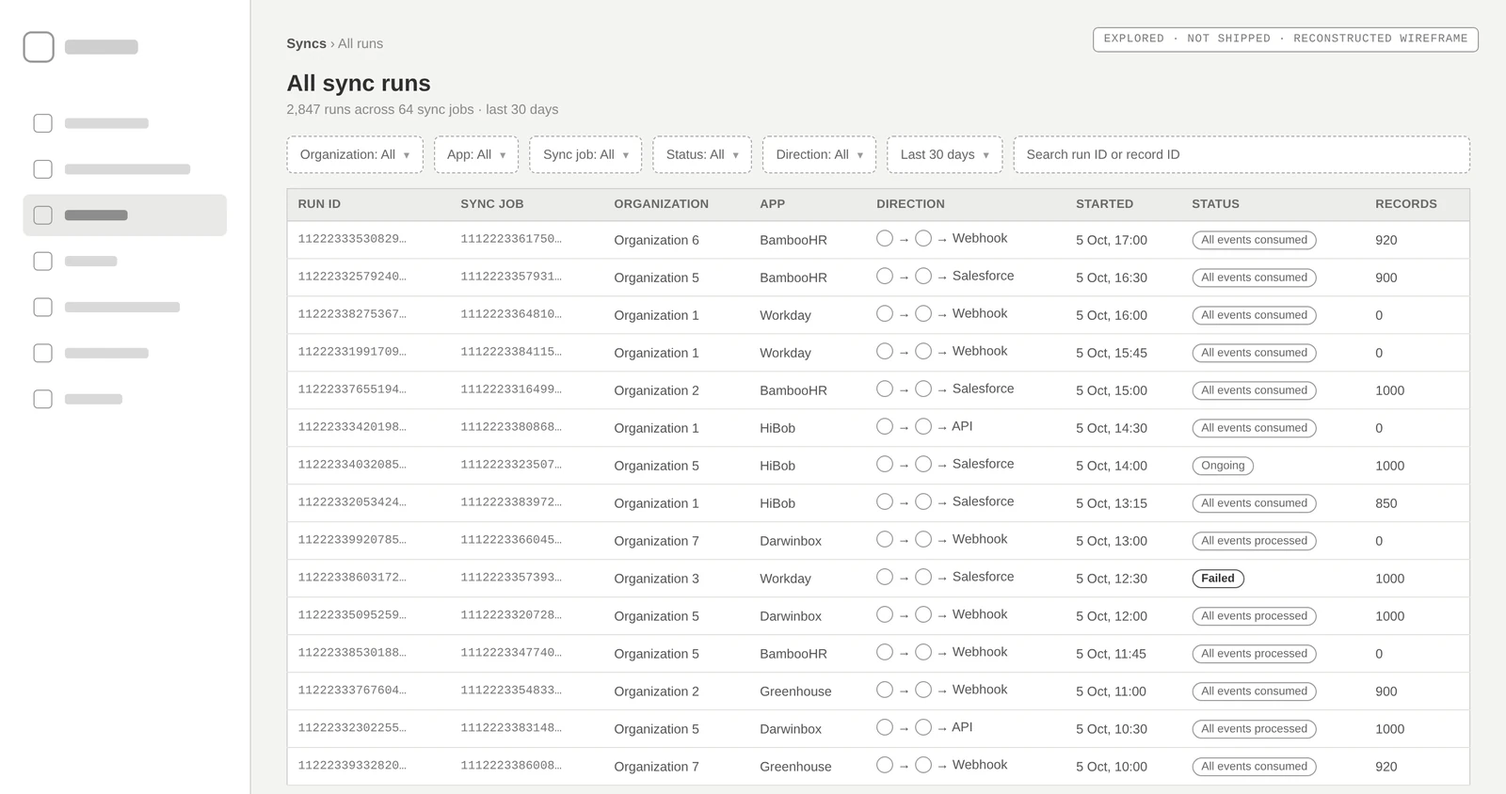
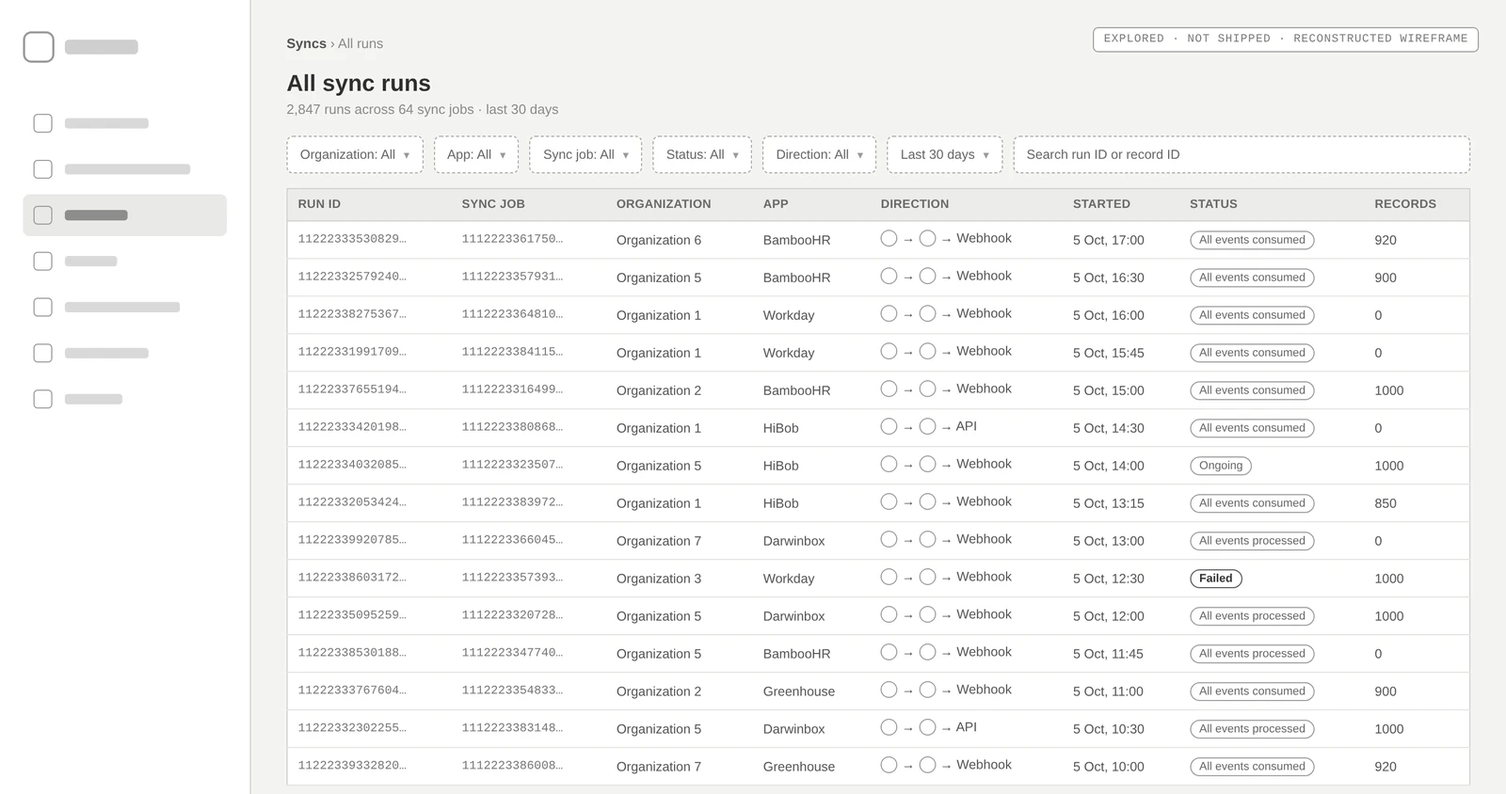
Sharpen Data Syncs visuals (#2)
* Sharpen Data Syncs visuals

- Add an animated two-hop diagram: a record passes BambooHR -> Knit (200 OK),
  then fails Knit -> Salesforce (404), with what v1 vs v2 told the customer
- Replace the three small v1 screenshots with zoomed crops of each problem,
  marked on a thumbnail of the full screen
- Rebuild the before/after slider on aligned records-table crops

Claude-Session: https://claude.ai/code/session_01HANcdKuu31yACBcrgzp2pV

* Polish Data Syncs cover, record page and home card

- Cover: one clean run screen with a callout on the 404 row, no floating overlay
- Record page: full-width screen with the four notes in a row underneath
- Home card: looping mini two-hop diagram instead of a still screenshot

Claude-Session: https://claude.ai/code/session_01HANcdKuu31yACBcrgzp2pV

* Show data landing at the customer's webhook

The second hop now ends at the customer's webhook, not Salesforce, in the
two-hop diagram, home card loop and case study copy.

Claude-Session: https://claude.ai/code/session_01HANcdKuu31yACBcrgzp2pV

* Point the v2 screens at the customer's webhook

- Direction cards on the job, run and record screens now end in the webhook
  icon; the destination's integration ID row is removed
- Record page step reads "Knit -> Webhook"
- Syncs list row for Organization 2 now shows the webhook destination
- Rejected-direction wireframes updated to match

Claude-Session: https://claude.ai/code/session_01HANcdKuu31yACBcrgzp2pV

---------

diff --git a/index.html b/index.html
@@ -806,6 +806,121 @@ h2.miss{opacity:.4;display:block;width:max-content;max-width:100%}
 .fn-note{margin-top:14px;font-size:13.5px;color:var(--muted);line-height:1.55}
 @media (max-width:1020px){.sy-old,.quotes,.cut{grid-template-columns:1fr}.lv-row{grid-template-columns:1fr;gap:6px}.fn-row,.fn-axis{grid-template-columns:1fr;gap:8px}.fn-axis div:first-child{display:none}}
 @media (prefers-reduced-motion:reduce){.fn-bar i{transition:none}}
+
+/* ===== Syncs visuals v2 ===== */
+.sp-list{display:grid;gap:18px}
+.sp{display:grid;grid-template-columns:minmax(220px,300px) minmax(0,1fr);gap:clamp(16px,2.4vw,32px);align-items:center;padding:clamp(14px,2vw,22px);border:1px solid var(--line);border-radius:22px;background:var(--surface)}
+.sp-meta .mono{display:block;color:var(--accent);font-size:11px;letter-spacing:.08em;margin:14px 0 6px}
+.sp-meta b{display:block;font-weight:500;font-size:18px;line-height:1.25}
+.sp-meta p{margin:6px 0 0;font-size:14.5px;color:var(--muted);line-height:1.5}
+.sp-thumb{position:relative;border-radius:10px;overflow:hidden;box-shadow:0 0 0 1px var(--line)}
+.sp-thumb .sw{aspect-ratio:auto}
+.sp-hl{position:absolute;border:2px solid var(--accent);border-radius:4px;box-shadow:0 0 0 999px rgba(20,14,10,.38);pointer-events:none}
+.sp-crop{position:relative;border-radius:14px;overflow:visible;background:#fff;box-shadow:0 30px 60px -36px rgba(10,6,2,.55),0 0 0 1px rgba(0,0,0,.06)}
+.sp-crop .sw{border-radius:14px;aspect-ratio:auto;background:#fff}
+.ring{position:absolute;border:2px dashed #C2412D;border-radius:8px;background:rgba(194,65,45,.07);pointer-events:none}
+.sp.in .ring{animation:ringIn .6s var(--ease) both}
+.sp.in .ring:nth-of-type(2){animation-delay:.15s}
+@keyframes ringIn{from{opacity:0;transform:scale(1.12)}to{opacity:1;transform:none}}
+.flag{position:absolute;z-index:2;font-family:var(--mono);font-size:11.5px;letter-spacing:.02em;line-height:1.35;color:#fff;background:#C2412D;padding:6px 9px;border-radius:7px;white-space:nowrap;box-shadow:0 8px 20px -8px rgba(0,0,0,.4)}
+.flag.up{transform:translateY(-100%)}
+.ba.tables{aspect-ratio:1104/452;background:#fff}
+.ba.tables .sw{aspect-ratio:1104/452;background:#fff}
+.ba.tables .ba-tag{top:auto;bottom:12px}
+.dp{--red:#C2412D;border:1px solid var(--line);border-radius:24px;background:var(--surface);padding:clamp(16px,2.6vw,30px)}
+[data-theme="dark"] .dp{--red:#F07A63}
+@media (prefers-color-scheme:dark){:root:not([data-theme="light"]) .dp{--red:#F07A63}}
+.dp-top{display:flex;justify-content:space-between;align-items:baseline;gap:12px;margin-bottom:8px}
+.dp-top h4{margin:0;font-weight:500;font-size:17px}
+.dp-replay{font-family:var(--mono);font-size:11px;letter-spacing:.06em;color:var(--muted);background:none;border:1px solid var(--line);border-radius:999px;padding:6px 12px;cursor:pointer}
+.dp-replay:hover{color:var(--ink);border-color:var(--ink)}
+.dp svg{display:block;width:100%;height:auto;overflow:visible}
+.dp .node rect{fill:var(--bg);stroke:var(--line);stroke-width:2}
+.dp .node.knit rect{stroke:var(--ink);stroke-width:2.5}
+.dp .node text{fill:var(--ink);font-family:var(--sans,Geist),system-ui,sans-serif;font-size:26px;font-weight:500;text-anchor:middle}
+.dp .node .cap{fill:var(--muted);font-family:var(--mono);font-size:15px;font-weight:400;letter-spacing:.08em}
+.dp .wire{stroke:var(--line);stroke-width:3;stroke-dasharray:2 10;stroke-linecap:round;fill:none}
+.dp .lit{stroke-width:3;fill:none;stroke-linecap:round;stroke-dasharray:400;stroke-dashoffset:400}
+.dp .lit.h1{stroke:var(--ok)}.dp .lit.h2{stroke:var(--red)}
+.dp .hop{fill:var(--muted);font-family:var(--mono);font-size:15px;letter-spacing:.06em;text-anchor:middle}
+.dp .badge{opacity:0}
+.dp .badge rect{rx:10}
+.dp .badge.ok rect{fill:color-mix(in srgb,var(--ok) 16%,var(--surface));stroke:var(--ok);stroke-width:1.5}
+.dp .badge.bad rect{fill:color-mix(in srgb,var(--red) 14%,var(--surface));stroke:var(--red);stroke-width:1.5}
+.dp .badge text{font-family:var(--mono);font-size:17px;text-anchor:middle}
+.dp .badge.ok text{fill:var(--ok)}.dp .badge.bad text{fill:var(--red)}
+.dp .rec{transform:translateX(0)}
+.dp .rec circle{fill:var(--accent)}
+.dp .rec text{fill:var(--muted);font-family:var(--mono);font-size:14px;text-anchor:middle}
+.dp.play .rec{animation:dpRec 3.4s var(--ease) forwards}
+.dp.play .rec circle{animation:dpRed 3.4s linear forwards}
+.dp.play .lit.h1{animation:dpLit .9s .25s var(--ease) forwards}
+.dp.play .lit.h2{animation:dpLit2 1s 1.9s var(--ease) forwards}
+.dp.play .badge.ok{animation:dpIn .4s 1.15s forwards}
+.dp.play .badge.bad{animation:dpIn .4s 2.9s forwards}
+.dp.play .dest{animation:dpDim .5s 2.9s forwards}
+.dp.play .ans{animation:dpUp .6s 3.3s var(--ease) both}
+.dp.play .ans + .ans{animation-delay:3.55s}
+@keyframes dpRec{0%{transform:translateX(0)}38%{transform:translateX(300px)}55%{transform:translateX(300px)}85%,100%{transform:translateX(520px)}}
+@keyframes dpRed{0%,84%{fill:var(--accent)}86%,100%{fill:var(--red)}}
+@keyframes dpLit{to{stroke-dashoffset:0}}
+@keyframes dpLit2{to{stroke-dashoffset:255}}
+@keyframes dpIn{to{opacity:1}}
+@keyframes dpDim{to{opacity:.38}}
+@keyframes dpUp{from{opacity:0;transform:translateY(12px)}to{opacity:1;transform:none}}
+.dp.final .rec{transform:translateX(520px)}.dp.final .rec circle{fill:var(--red)}
+.dp.final .lit.h1{stroke-dashoffset:0}.dp.final .lit.h2{stroke-dashoffset:255}
+.dp.final .badge{opacity:1}.dp.final .dest{opacity:.38}
+.dp-ans{display:grid;grid-template-columns:repeat(2,minmax(0,1fr));gap:14px;margin-top:18px}
+.ans{padding:16px 18px;border-radius:16px;border:1px solid var(--line);background:var(--bg)}
+.ans .mono{display:block;font-size:11px;letter-spacing:.08em;color:var(--muted);margin-bottom:10px}
+.ans.v2{border-color:var(--accent)}.ans.v2 .mono{color:var(--accent)}
+.ans p{margin:10px 0 0;font-size:14.5px;color:var(--muted);line-height:1.5}
+.mini-row{display:grid;grid-template-columns:1.6fr repeat(4,1fr);border:1px solid var(--line);border-radius:8px;overflow:hidden;font-family:var(--mono);font-size:11.5px}
+.mini-row span{padding:8px 6px;text-align:center;border-left:1px solid var(--line);color:var(--ok)}
+.mini-row.head{border-radius:8px 8px 0 0;border-bottom:0}.mini-row.head + .mini-row{border-radius:0 0 8px 8px}.mini-row.head span{color:var(--muted);font-size:10px;letter-spacing:.06em;padding:6px 4px}
+.mini-row span:first-child{border-left:0;color:var(--muted);text-align:left}
+.mini-row span.blank{background:repeating-linear-gradient(135deg,transparent 0 6px,color-mix(in srgb,var(--red,#C2412D) 12%,transparent) 6px 8px);outline:2px dashed var(--red,#C2412D);outline-offset:-3px}
+.step-line{display:flex;flex-wrap:wrap;gap:6px 10px;align-items:center;font-family:var(--mono);font-size:12.5px}
+.step-line b{font-weight:500;color:var(--ink)}
+.step-line .err{color:var(--red);border:1px solid var(--red);border-radius:6px;padding:2px 7px}
+@media (max-width:1020px){.sp{grid-template-columns:1fr}.sp-thumb{display:none}.sp-meta .mono{margin-top:0}.dp-ans{grid-template-columns:1fr}.flag{font-size:10.5px;white-space:normal;max-width:60%}}
+@media (prefers-reduced-motion:reduce){.dp.play .rec,.dp.play .rec circle,.dp.play .lit,.dp.play .badge,.dp.play .dest,.dp.play .ans{animation-duration:.01s!important;animation-delay:0s!important}}
+
+/* ===== Syncs visuals v3 ===== */
+.hot-stack .hot{width:100%}
+.hot-stack .hs-list{grid-template-columns:repeat(4,minmax(0,1fr));gap:10px;margin-top:16px}
+.hot-stack .hs-item{grid-template-columns:28px 1fr;align-items:start;border:1px solid var(--line);background:var(--surface)}
+.hot-stack .hs-item.on,.hot-stack .hs-item:hover{border-color:var(--accent)}
+.sw-wrap{position:relative}
+.cover-ring{position:absolute;z-index:3;border:2.5px solid #C2412D;border-radius:8px;box-shadow:0 0 0 6px rgba(194,65,45,.18);pointer-events:none;animation:coverRing 2.6s ease-in-out infinite}
+@keyframes coverRing{0%,100%{box-shadow:0 0 0 4px rgba(194,65,45,.14)}50%{box-shadow:0 0 0 10px rgba(194,65,45,.22)}}
+.cover-flag{position:absolute;z-index:4;transform:translate(-100%,-100%);margin:-12px 0 0 0;background:#16161D;color:#F3F3F7;font-family:var(--mono);font-size:clamp(10px,1vw,13px);letter-spacing:.02em;padding:9px 12px;border-radius:9px;white-space:nowrap;box-shadow:0 18px 36px -18px rgba(0,0,0,.6)}
+.cover-flag b{color:#FF8A75;font-weight:500}
+.mini-dp{position:absolute;inset:0;display:grid;place-items:center;padding:4% 3%}
+.mini-dp svg{width:100%;height:auto;overflow:visible}
+.mini-dp .mn rect{fill:rgba(255,255,255,.06);stroke:rgba(255,255,255,.35);stroke-width:2}
+.mini-dp .mn.k rect{stroke:#F3EEE6}
+.mini-dp .mn text{fill:#F3EEE6;font-family:var(--sans,Geist),system-ui,sans-serif;font-size:30px;font-weight:500;text-anchor:middle}
+.mini-dp .mw{stroke:rgba(255,255,255,.28);stroke-width:3;stroke-dasharray:2 10;stroke-linecap:round}
+.mini-dp .ml{stroke-width:4;stroke-linecap:round;stroke-dasharray:210;stroke-dashoffset:210}
+.mini-dp .ml.a{stroke:#6FD3A0;animation:mnA 5s infinite}
+.mini-dp .ml.b{stroke:#FF8A75;animation:mnB 5s infinite}
+.mini-dp .md{animation:mnDot 5s var(--ease) infinite}
+.mini-dp .md circle{r:15px;fill:#F3EEE6;animation:mnRed 5s linear infinite}
+.mini-dp .mb{opacity:0}
+.mini-dp .mb text{font-family:var(--mono);font-size:24px;text-anchor:middle}
+.mini-dp .mb.ok text{fill:#6FD3A0}.mini-dp .mb.bad text{fill:#FF8A75}
+.mini-dp .mb.ok{animation:mnOk 5s infinite}.mini-dp .mb.bad{animation:mnBad 5s infinite}
+@keyframes mnDot{0%{transform:translateX(0);opacity:0}5%{opacity:1}28%,40%{transform:translateX(300px)}62%,92%{transform:translateX(450px);opacity:1}100%{transform:translateX(450px);opacity:0}}
+@keyframes mnRed{0%,61%{fill:#F3EEE6}63%,100%{fill:#FF8A75}}
+@keyframes mnA{0%,4%{stroke-dashoffset:210;opacity:1}28%,92%{stroke-dashoffset:0;opacity:1}100%{stroke-dashoffset:0;opacity:0}}
+@keyframes mnB{0%,40%{stroke-dashoffset:210;opacity:1}62%,92%{stroke-dashoffset:135;opacity:1}100%{stroke-dashoffset:135;opacity:0}}
+@keyframes mnOk{0%,28%{opacity:0}32%,92%{opacity:1}100%{opacity:0}}
+@keyframes mnBad{0%,62%{opacity:0}66%,92%{opacity:1}100%{opacity:0}}
+@media (max-width:1020px){.hot-stack .hs-list{grid-template-columns:1fr 1fr}}
+@media (max-width:560px){.hot-stack .hs-list{grid-template-columns:1fr}.cover-flag{white-space:normal;width:60%}}
+@media (prefers-reduced-motion:reduce){.mini-dp *{animation:none!important}.mini-dp .md{transform:translateX(450px)}.mini-dp .md circle{fill:#FF8A75}.mini-dp .ml.a{stroke-dashoffset:0}.mini-dp .ml.b{stroke-dashoffset:135}.mini-dp .mb{opacity:1}.cover-ring{animation:none}}
 </style>
 </head>
 <body>
@@ -931,8 +1046,16 @@ h2.miss{opacity:.4;display:block;width:max-content;max-width:100%}
             <span class="viewcase">Open project <i>→</i></span>
           </div>
           <div class="scard-art" style="--tint:#1F4B3E">
-            <div class="layer l1" data-depth="-40" style="left:8%;top:12%;width:90%"><div class="frame"><div class="frame-bar"><i></i><i></i><i></i><span>app.getknit.dev/syncs</span></div><div class="sw" data-screen="syncsNewRun"></div></div></div>
-            <span class="art-note">Real product screens · sample data</span>
+            <div class="mini-dp" aria-hidden="true"><svg viewBox="0 0 1000 260">
+              <path class="mw" d="M215 140 H425"/><path class="mw" d="M575 140 H785"/>
+              <path class="ml a" d="M215 140 H425"/><path class="ml b" d="M575 140 H785"/>
+              <g class="md"><circle cx="200" cy="140" r="13"/></g>
+              <g class="mn"><rect x="25" y="90" width="190" height="100" rx="18"/><text x="120" y="148">BambooHR</text></g>
+              <g class="mn k"><rect x="425" y="90" width="150" height="100" rx="18"/><text x="500" y="148">Knit</text></g>
+              <g class="mn"><rect x="785" y="90" width="190" height="100" rx="18"/><text x="880" y="148">Webhook</text></g>
+              <g class="mb ok"><text x="320" y="70">✓ 200 OK</text></g><g class="mb bad"><text x="680" y="70">✕ 404 Not Found</text></g>
+            </svg></div>
+            <span class="art-note">Every record makes two hops</span>
           </div>
           <a class="cover" href="#case-observability" data-cursor="Open" aria-label="Open project 03"></a>
         </div>
@@ -1078,14 +1201,53 @@ h2.miss{opacity:.4;display:block;width:max-content;max-width:100%}
 <template id="tpl-sy-old">
   <div class="vis">
     <div class="vis-cap"><span>What a customer saw in v1</span><span>Real screens, sample data</span></div>
-    <div class="sy-old">
-      <figure><div class="frame"><div class="frame-bar"><i></i><i></i><i></i><span>Syncs</span></div><div class="sw" data-screen="syncsOldList"></div></div><figcaption><span class="mono">LEVEL 1 · LIST</span><b>64 syncs, and no sign of health</b>Organization, app, IDs and a schedule. Nothing said whether any sync had worked, or where its data was going.</figcaption></figure>
-      <figure><div class="frame"><div class="frame-bar"><i></i><i></i><i></i><span>Syncs › Sync Job</span></div><div class="sw" data-screen="syncsOldJob"></div></div><figcaption><span class="mono">LEVEL 2 · JOB</span><b>Runs, counted the way the system counts</b>Events triggered, events consumed, records processed. Accurate, and written in Knit's vocabulary rather than the customer's.</figcaption></figure>
-      <figure><div class="frame"><div class="frame-bar"><i></i><i></i><i></i><span>Syncs › Sync Run</span></div><div class="sw" data-screen="syncsOldRun"></div></div><figcaption><span class="mono">LEVEL 3 · RUN</span><b>The flat table with checkboxes</b>A blank cell could mean failed, skipped or not supported. No error, no reason, and no way to tell which hop broke.</figcaption></figure>
+    <div class="sp-list">
+      <div class="sp" data-sp>
+        <div class="sp-meta"><div class="sp-thumb"><div class="sw" data-screen="syncsOldList"></div><i class="sp-hl" style="left:19.03%;top:36.32%;width:71.39%;height:25.0%"></i></div>
+          <span class="mono">LEVEL 1 · LIST</span><b>64 syncs, and no sign of health</b><p>Organization, app, IDs and a schedule. Nothing said whether a sync had worked, or where its data was going.</p></div>
+        <div class="sp-crop"><div class="sw" data-screen="syncsCropList"></div><i class="ring" style="left:0%;top:0%;width:100%;height:17.5%"></i><span class="flag up" style="left:62%;top:0%">No status · no direction</span></div>
+      </div>
+      <div class="sp" data-sp>
+        <div class="sp-meta"><div class="sp-thumb"><div class="sw" data-screen="syncsOldJob"></div><i class="sp-hl" style="left:19.03%;top:44.47%;width:71.39%;height:20.0%"></i></div>
+          <span class="mono">LEVEL 2 · JOB</span><b>Runs, counted the way the system counts</b><p>Events triggered, events consumed, records processed. Accurate, and written in Knit's vocabulary rather than the customer's.</p></div>
+        <div class="sp-crop"><div class="sw" data-screen="syncsCropJob"></div><i class="ring" style="left:40.6%;top:1%;width:57.6%;height:98%"></i><span class="flag up" style="left:40.6%;top:0%">Knit's counters, not the customer's question</span></div>
+      </div>
+      <div class="sp" data-sp>
+        <div class="sp-meta"><div class="sp-thumb"><div class="sw" data-screen="syncsOldRun"></div><i class="sp-hl" style="left:19.03%;top:44.47%;width:71.39%;height:29.47%"></i></div>
+          <span class="mono">LEVEL 3 · RUN</span><b>The flat table with checkboxes</b><p>A blank cell could mean failed, skipped or not supported. No error, no reason, and no way to tell which hop broke.</p></div>
+        <div class="sp-crop"><div class="sw" data-screen="syncsCropRun"></div><i class="ring" style="left:45.5%;top:42.9%;width:13.5%;height:28.1%"></i><i class="ring" style="left:31.9%;top:71.4%;width:13.5%;height:28.2%"></i><span class="flag " style="left:60.5%;top:47%">Blank = failed? skipped? not supported?</span></div>
+      </div>
     </div>
   </div>
 </template>
 
+<template id="tpl-sy-path">
+  <div class="vis">
+    <div class="vis-cap"><span>Anatomy of one failed record</span><span>Plays when it scrolls into view</span></div>
+    <div class="dp" data-dp>
+      <div class="dp-top"><h4>Every record makes two hops. v1 couldn't say which one broke.</h4><button class="dp-replay" type="button">↻ REPLAY</button></div>
+      <svg viewBox="0 0 1000 300" role="img" aria-label="A record travels from BambooHR to Knit with 200 OK, then fails on the way from Knit to the customer's webhook with 404 Not Found.">
+        <path class="wire" d="M215 170 H425"/><path class="wire" d="M575 170 H785"/>
+        <path class="lit h1" d="M215 170 H425"/><path class="lit h2" d="M575 170 H785"/>
+        <g class="rec"><circle cx="200" cy="170" r="13"/><text x="200" y="210">record 101</text></g>
+        <text class="hop" x="320" y="128">HOP 1 · GET</text><text class="hop" x="680" y="128">HOP 2 · POST</text>
+        <g class="node"><rect x="25" y="120" width="190" height="100" rx="18"/><text x="120" y="178">BambooHR</text><text class="cap" x="120" y="252">SOURCE APP</text></g>
+        <g class="node knit"><rect x="425" y="120" width="150" height="100" rx="18"/><text x="500" y="178">Knit</text><text class="cap" x="500" y="252">KNIT</text></g>
+        <g class="node dest"><rect x="785" y="120" width="190" height="100" rx="18"/><text x="880" y="178">Webhook</text><text class="cap" x="880" y="252">CUSTOMER'S ENDPOINT</text></g>
+        <g class="badge ok"><rect x="255" y="40" width="130" height="40"/><text x="320" y="66">✓ 200 OK</text></g>
+        <g class="badge bad"><rect x="600" y="40" width="200" height="40"/><text x="700" y="66">✕ 404 Not Found</text></g>
+      </svg>
+      <div class="dp-ans">
+        <div class="ans v1"><span class="mono">WHAT V1 TOLD YOU</span>
+          <div class="mini-row head"><span>ID</span><span>PROFILE</span><span>ORG</span><span>SALARY</span><span>LOCATION</span></div><div class="mini-row"><span>record 101</span><span>✓</span><span>✓</span><span class="blank" aria-label="blank cell"></span><span>✓</span></div>
+          <p>A blank cell under Salary. Failed, skipped, or not supported? No way to tell, so the customer asked us.</p></div>
+        <div class="ans v2"><span class="mono">WHAT V2 TELLS YOU</span>
+          <div class="step-line"><b>Record 101</b><span>Step 2 · POST Push record</span><span>Knit → customer's webhook</span><span class="err">404 Not Found</span></div>
+          <p>The hop, the call and the result, one click below the run. The customer can see the failure happened at their own webhook, not inside Knit.</p></div>
+      </div>
+    </div>
+  </div>
+</template>
 <template id="tpl-sy-quotes">
   <div class="vis">
     <div class="vis-cap"><span>In their words</span><span>Call transcripts, Jul 2024 – Dec 2025</span></div>
@@ -1132,7 +1294,7 @@ h2.miss{opacity:.4;display:block;width:max-content;max-width:100%}
           <div class="step on"><span class="n">LEVEL 1 · LIST</span><b>Where the data goes</b><span>Organization first, then Direction: source app → Knit → destination. No status column, on purpose: a sync job is a schedule.</span></div>
           <div class="step"><span class="n">LEVEL 2 · JOB</span><b>How its runs went</b><span>Summary cards on top, then every run with one of four states. Amber means processed, green means the customer's side confirmed it.</span></div>
           <div class="step"><span class="n">LEVEL 3 · RUN</span><b>Which records failed</b><span>Each record with an HTTP status, a Remarks column for the error and the data models it processed. Filter and search for the one that broke.</span></div>
-          <div class="step"><span class="n">LEVEL 4 · RECORD · NEW</span><b>Which step broke</b><span>Every step the record went through. GET from BambooHR: 200 OK. POST to Salesforce: 404 Not Found. That's the hop.</span></div>
+          <div class="step"><span class="n">LEVEL 4 · RECORD · NEW</span><b>Which step broke</b><span>Every step the record went through. GET from BambooHR: 200 OK. POST to the customer's webhook: 404 Not Found. That's the hop.</span></div>
         </div>
         <div class="sc-stage"><div class="frame"><div class="frame-bar"><i></i><i></i><i></i><span>app.getknit.dev/syncs</span></div>
           <div class="sc-screens wide"><div class="sw on" data-screen="syncsNewList"></div><div class="sw" data-screen="syncsNewJob"></div><div class="sw" data-screen="syncsNewRun"></div><div class="sw" data-screen="syncsNewRecord"></div></div>
@@ -1144,11 +1306,11 @@ h2.miss{opacity:.4;display:block;width:max-content;max-width:100%}
 
 <template id="tpl-sy-ba">
   <div class="vis">
-    <div class="vis-cap"><span>The run page, v1 against v2</span><span>Drag the handle</span></div>
-    <div class="ba real" data-lens-title="Contrast effect" data-lens="Change is easiest to judge side by side. The blank checkbox cells on the left are the whole problem; the Remarks column on the right is the answer.">
-      <div class="layer-a"><div class="sw" data-screen="syncsOldRun"></div></div>
-      <div class="layer-b"><div class="sw" data-screen="syncsNewRun"></div></div>
-      <span class="ba-tag l">v1 · ticks and blanks</span><span class="ba-tag r">v2 · status, reason, models</span>
+    <div class="vis-cap"><span>The records table, v1 against v2</span><span>Drag the handle</span></div>
+    <div class="ba real tables" data-lens-title="Contrast effect" data-lens="Change is easiest to judge side by side. Same job, same records: blanks on one side, a status and a reason on the other.">
+      <div class="layer-a"><div class="sw" data-screen="syncsBaOld"></div></div>
+      <div class="layer-b"><div class="sw" data-screen="syncsBaNew"></div></div>
+      <span class="ba-tag l">v1 · ticks and blanks</span><span class="ba-tag r">v2 · status, reason, data models</span>
       <div class="ba-handle"></div>
     </div>
   </div>
@@ -1156,20 +1318,20 @@ h2.miss{opacity:.4;display:block;width:max-content;max-width:100%}
 
 <template id="tpl-sy-hot">
   <div class="vis">
-    <div class="vis-cap"><span>The new record page, up close</span><span>Hover the pins</span></div>
-    <div class="cs-grid">
-      <div class="hs-list" data-hs-list="hsSy">
-        <div class="hs-item" data-k="0"><i>1</i><div><b>A real address</b><span>Syncs › Job › Run › Record. A full page gets its own link to share with support and a breadcrumb back up.</span></div></div>
-        <div class="hs-item" data-k="1"><i>2</i><div><b>The result, in plain terms</b><span>404 Not Found, the language developers already debug in.</span></div></div>
-        <div class="hs-item" data-k="2"><i>3</i><div><b>One row per hop</b><span>Method, direction and result for every executed step, so the failing hop stands out.</span></div></div>
-        <div class="hs-item" data-k="3"><i>4</i><div><b>Data models, not data</b><span>What was subscribed and processed for this record. No field values, because Knit doesn't keep them.</span></div></div>
-      </div>
-      <div class="hot frame" id="hsSy"><div class="frame-bar"><i></i><i></i><i></i><span>Syncs › Job › Run › Record 101</span></div>
+    <div class="vis-cap"><span>The new record page, up close</span><span>Hover the pins or the notes</span></div>
+    <div class="hot-stack">
+      <div class="hot frame" id="hsSy"><div class="frame-bar"><i></i><i></i><i></i><span>app.getknit.dev/syncs/sj_…/sr_…/101</span></div>
         <div class="sw" data-screen="syncsNewRecord"></div>
         <button class="hs" style="--x:36%;--y:11%" data-k="0" aria-label="Pin 1">1</button>
         <button class="hs" style="--x:86%;--y:28%" data-k="1" aria-label="Pin 2">2</button>
         <button class="hs" style="--x:30%;--y:47%" data-k="2" aria-label="Pin 3">3</button>
         <button class="hs" style="--x:68%;--y:66%" data-k="3" aria-label="Pin 4">4</button>
+      </div>
+      <div class="hs-list" data-hs-list="hsSy">
+        <div class="hs-item" data-k="0"><i>1</i><div><b>A real address</b><span>Syncs › Job › Run › Record. A full page gets its own link to share with support and a breadcrumb back up.</span></div></div>
+        <div class="hs-item" data-k="1"><i>2</i><div><b>The result, in plain terms</b><span>404 Not Found, the language developers already debug in.</span></div></div>
+        <div class="hs-item" data-k="2"><i>3</i><div><b>One row per hop</b><span>Method, direction and result for every executed step, so the failing hop stands out.</span></div></div>
+        <div class="hs-item" data-k="3"><i>4</i><div><b>Data models, not data</b><span>What was subscribed and processed for this record. No field values, because Knit doesn't keep them.</span></div></div>
       </div>
     </div>
   </div>
@@ -1398,6 +1560,11 @@ const CONFIG = {
     syncsNewRecord: "assets/syncs-new-record.webp",
     syncsExAll: "assets/syncs-explored-all-runs.webp",
     syncsExPanel: "assets/syncs-explored-side-panel.webp",
+    syncsCropList: "assets/syncs-crop-list.webp",
+    syncsCropJob: "assets/syncs-crop-job.webp",
+    syncsCropRun: "assets/syncs-crop-run.webp",
+    syncsBaOld: "assets/syncs-ba-old.webp",
+    syncsBaNew: "assets/syncs-ba-new.webp",
     /* Other projects: placeholders until you upload a real screen with the same file name */
     dashboard: "assets/dashboard.webp",
     connect: "assets/connect.webp",
@@ -1514,7 +1681,7 @@ curl https://api.getknit.dev/v1.0/hris/employees \\
     <div class="s-card"><table class="s-table"><tr><th>Employee</th><th>Manager</th><th>Self review</th><th>Manager review</th><th>Progress</th></tr>
       ${[["Ananya R.","Vikram S.","ok","Submitted","run","In progress",70],["Rohan M.","Vikram S.","ok","Submitted","ok","Submitted",100],["Meera K.","Priya N.","ok","Submitted","wait","Not started",35],["Arjun T.","Priya N.","wait","Due in 2 days","wait","Not started",10]].map(r => `<tr><td><span class="s-app"><span class="avatar" style="background:#C98BA0">${r[0][0]}</span>${r[0]}</span></td><td>${r[1]}</td><td>${st(r[2], r[3])}</td><td>${st(r[4], r[5])}</td><td><div style="width:120px;height:6px;border-radius:3px;background:#EEF0F4"><div style="width:${r[6]}%;height:100%;border-radius:3px;background:#D9577A"></div></div></td></tr>`).join("")}</table></div></div></div>`
 };
-const SCREEN_NAMES = { dashboard:"Unified API · Dashboard", accounts:"Integrated accounts", syncs:"Data syncs", activity:"Unified activity", before3:"Before: three products", picker:"Onboarding · pick a path", connect:"White-label connect", detail:"Live object detail", index:"Live objects index", quickstart:"Quickstart", digix:"DIGIX · Scheduler", review:"SuperBeings · Review cycle", syncsOldList:"Syncs v1 · list", syncsOldJob:"Syncs v1 · job", syncsOldRun:"Syncs v1 · run", syncsNewList:"Syncs v2 · list", syncsNewJob:"Syncs v2 · job", syncsNewRun:"Syncs v2 · run", syncsNewRecord:"Syncs v2 · record", syncsExAll:"Explored · all runs table", syncsExPanel:"Explored · side panel" };
+const SCREEN_NAMES = { dashboard:"Unified API · Dashboard", accounts:"Integrated accounts", syncs:"Data syncs", activity:"Unified activity", before3:"Before: three products", picker:"Onboarding · pick a path", connect:"White-label connect", detail:"Live object detail", index:"Live objects index", quickstart:"Quickstart", digix:"DIGIX · Scheduler", review:"SuperBeings · Review cycle", syncsOldList:"Syncs v1 · list", syncsOldJob:"Syncs v1 · job", syncsOldRun:"Syncs v1 · run", syncsNewList:"Syncs v2 · list", syncsNewJob:"Syncs v2 · job", syncsNewRun:"Syncs v2 · run", syncsNewRecord:"Syncs v2 · record", syncsExAll:"Explored · all runs table", syncsExPanel:"Explored · side panel", syncsCropList:"Syncs v1 · list detail", syncsCropJob:"Syncs v1 · job detail", syncsCropRun:"Syncs v1 · run detail", syncsBaOld:"Syncs v1 · records table", syncsBaNew:"Syncs v2 · records table" };
 
 const scaleQueue = new Set();
 const ro = new ResizeObserver(entries => entries.forEach(e => fit(e.target)));
@@ -1625,12 +1792,12 @@ const CASES = [
     kicker: "Case study 03 · Knit · Data Syncs · 2026", crumb: "03 · Knit · Data Syncs redesign",
     title: "From the system's view to the customer's <em>question</em>",
     lede: "Knit moves data between its customers' products and hundreds of HR, CRM and accounting apps on a schedule. I designed the first Syncs screens around how engineering saw that system. A year later I redesigned them around the one question customers kept asking: which record broke, and where?",
-    cover: { main: "syncsNewRun", float: "syncsNewRecord", url: "app.getknit.dev/syncs/sj_…/sr_…" },
+    cover: { main: "syncsNewRun", url: "app.getknit.dev/syncs/sj_…/sr_…", ring: [18.9, 43.6, 76.7, 4.9], flag: "Record 101 · <b>404 Not Found</b> · which step?" },
     tldr: { role: "Sole product designer. I designed v1 as well.", team: "2 founders, 2 engineers", timeline: "8 weeks: 2 weeks design, 6 weeks build. Live 11 Mar 2026", industry: "B2B SaaS · integrations", problem: "Customers could see that a sync ran, but not which record failed or which hop broke.", result: "About 1 in 4 sessions on a sync run now open the failing record, a level that didn't exist before" },
     chapters: [
       { name: "Context & problem", head: "The first version was mine, and it answered the wrong question.",
-        body: ["A sync job copies data on a schedule, say employees from BambooHR into a customer's Salesforce. Each run moves hundreds or thousands of records, and every record makes two hops: from the source app into Knit, then from Knit to wherever the customer wants it.", "I designed v1 of these screens for the 2024 web app launch, and I modelled them on how engineering described the system: jobs, runs, events triggered and events consumed. It was accurate. It just wasn't what customers needed once they started relying on it to debug.", "The drill-down from list to job to run already existed. The trouble was what each level showed."],
-        custom: ["tpl-sy-old"] },
+        body: ["A sync job copies data on a schedule, say employees from BambooHR, delivered to the customer's webhook. Each run moves hundreds or thousands of records, and every record makes two hops: from the source app into Knit, then from Knit to the customer's webhook.", "I designed v1 of these screens for the 2024 web app launch, and I modelled them on how engineering described the system: jobs, runs, events triggered and events consumed. It was accurate. It just wasn't what customers needed once they started relying on it to debug.", "The drill-down from list to job to run already existed. The trouble was what each level showed."],
+        custom: ["tpl-sy-path", "tpl-sy-old"] },
       { name: "Research & insight", head: "Two years of calls, one question.",
         lede: "Before touching Figma I went back through customer and prospect calls, and through Heap and Clarity for how the old screens were actually used. The same question kept coming back in different words.",
         custom: ["tpl-sy-quotes"],
@@ -1651,7 +1818,7 @@ const CASES = [
         ] },
       { name: "Decisions & trade-offs", head: "Three calls, and one of them wasn't mine.",
         decisions: [
-          { q: "What can a record page show if Knit never stores customer data?", considered: "My first record page showed the actual payload at every step, so you could watch a field travel from BambooHR to Salesforce.", chose: "The data models subscribed for that record, each with a tick for processed or not. Structure, not values.", why: "Engineering stopped the payload view: Knit doesn't store customer data, by design. The customer still learns where it broke and what was affected, and the privacy promise stays intact.", tag: "Engineering pushback" },
+          { q: "What can a record page show if Knit never stores customer data?", considered: "My first record page showed the actual payload at every step, so you could watch a field travel from BambooHR to the customer's webhook.", chose: "The data models subscribed for that record, each with a tick for processed or not. Structure, not values.", why: "Engineering stopped the payload view: Knit doesn't store customer data, by design. The customer still learns where it broke and what was affected, and the privacy promise stays intact.", tag: "Engineering pushback" },
           { q: "Should the sync jobs list show a status?", considered: "A status column on every job, the way most monitoring tables do it.", chose: "Status on runs only.", why: "A sync job is a recurring schedule. Status only makes sense for each of its runs.", cost: "A failing job doesn't show itself on the list. It's the first thing in my reflection." },
           { q: "When is a run actually done?", considered: "v1's single “All Consumed” status, in Knit's own event vocabulary.", chose: "Two states: All Events Processed in amber, All Events Consumed in green, with a tooltip that spells out the difference.", why: "Processed means Knit has handled every event, failures included, but the customer's side hasn't confirmed them all. Consumed means every event was signed for. Packed and out for delivery, versus signed for at the door.", cost: "One more state for people to learn, so the tooltip has to do real work." }
         ],
@@ -1740,7 +1907,7 @@ function renderCases() {
           ${field("Role", t.role)}${field("Team", t.team)}${field("Timeline", t.timeline)}${field("Industry", t.industry)}${field("Problem", t.problem, "full")}</dl>
           <div class="tl-result"><span class="mono">HEADLINE RESULT</span>${t.result ? `<b>${t.result}</b>` : (D ? `<b class="miss">Add your headline result</b>` : "")}</div></aside>
       </div></header>
-      <div class="case-cover"><div class="cover-stage" style="--tint:${c.tint}"><div class="frame"><div class="frame-bar"><i></i><i></i><i></i><span>${c.cover.url}</span></div><div class="sw" data-screen="${c.cover.main}"></div></div>${c.cover.float ? `<div class="cover-float"><div class="frame bare"><div class="sw" data-screen="${c.cover.float}"></div></div></div>` : ""}</div>${D && !c.real ? `<p class="swap-note">Stand-in screens built in code. Replace with Figma exports before sharing.</p>` : (c.real ? `<p class="swap-note">${c.real}</p>` : "")}</div>
+      <div class="case-cover"><div class="cover-stage" style="--tint:${c.tint}"><div class="frame"><div class="frame-bar"><i></i><i></i><i></i><span>${c.cover.url}</span></div><div class="sw-wrap"><div class="sw" data-screen="${c.cover.main}"></div>${c.cover.ring ? `<i class="cover-ring" style="left:${c.cover.ring[0]}%;top:${c.cover.ring[1]}%;width:${c.cover.ring[2]}%;height:${c.cover.ring[3]}%"></i><span class="cover-flag" style="left:${c.cover.ring[0] + c.cover.ring[2]}%;top:${c.cover.ring[1]}%">${c.cover.flag}</span>` : ""}</div></div>${c.cover.float ? `<div class="cover-float"><div class="frame bare"><div class="sw" data-screen="${c.cover.float}"></div></div></div>` : ""}</div>${D && !c.real ? `<p class="swap-note">Stand-in screens built in code. Replace with Figma exports before sharing.</p>` : (c.real ? `<p class="swap-note">${c.real}</p>` : "")}</div>
       <div class="cbody">${chapters}
         <nav class="pn" aria-label="More projects">
           <a href="#${prev.id}" class="prev"><div><span class="mono">PREVIOUS · ${prev.n}</span><b>${prev.title.replace(/<[^>]+>/g, "")}</b></div><div class="frame bare"><div class="sw" data-screen="${prev.cover.main}"></div></div></a>
@@ -1904,6 +2071,13 @@ function showCase(route) {
   $$("[data-flow] .path", art).forEach(p => p.style.setProperty("--len", Math.ceil(p.getTotalLength()) + "px"));
   if (caseIO) caseIO.disconnect(); caseIO = watch(scroller);
   $$(".ch", art).forEach(el => { el.classList.remove("seen"); caseIO.observe(el); });
+  $$("[data-dp]", art).forEach(d => {
+    const play = () => { d.classList.remove("play", "final"); void d.offsetWidth; d.classList.add(reduce ? "final" : "play"); };
+    d.classList.remove("play", "final");
+    const o = new IntersectionObserver(es => es.forEach(e => { if (e.isIntersecting) { play(); o.disconnect(); } }), { root: scroller, threshold: .45 }); o.observe(d);
+    const b = $(".dp-replay", d); if (b) b.onclick = play;
+  });
+  $$("[data-sp]", art).forEach(c => { c.classList.remove("in"); const o = new IntersectionObserver(es => es.forEach(e => { if (e.isIntersecting) { c.classList.add("in"); o.disconnect(); } }), { root: scroller, threshold: .5 }); o.observe(c); });
   $$("[data-fn]", art).forEach(f => { f.classList.remove("go"); const o = new IntersectionObserver(es => es.forEach(e => { if (e.isIntersecting) { f.classList.add("go"); o.disconnect(); } }), { root: scroller, threshold: .3 }); o.observe(f); });
   $$(".rv,[data-count]", art).forEach(el => { if (el.classList.contains("rv") && !reduce) el.classList.add("pre"); el.dataset.done = ""; caseIO.observe(el); });
   const rail = $("#chRail"); rail.innerHTML = "";
